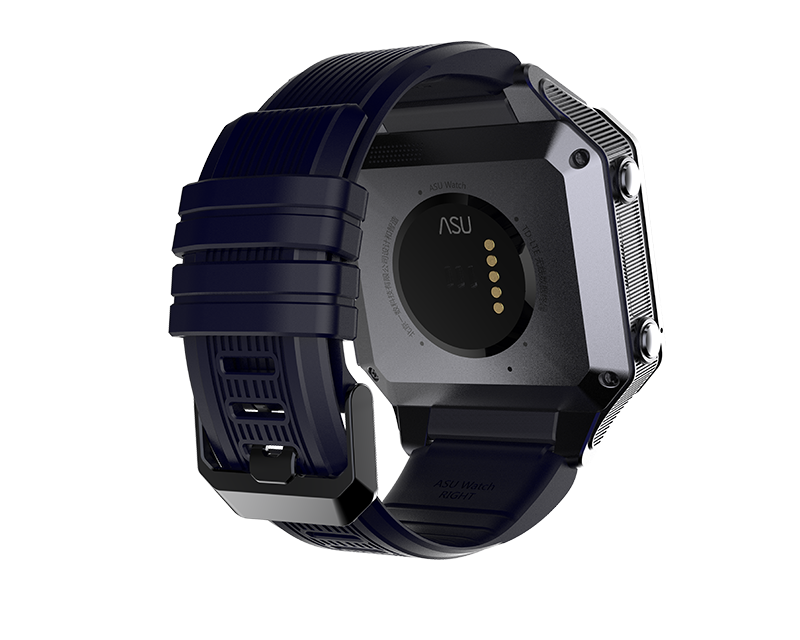
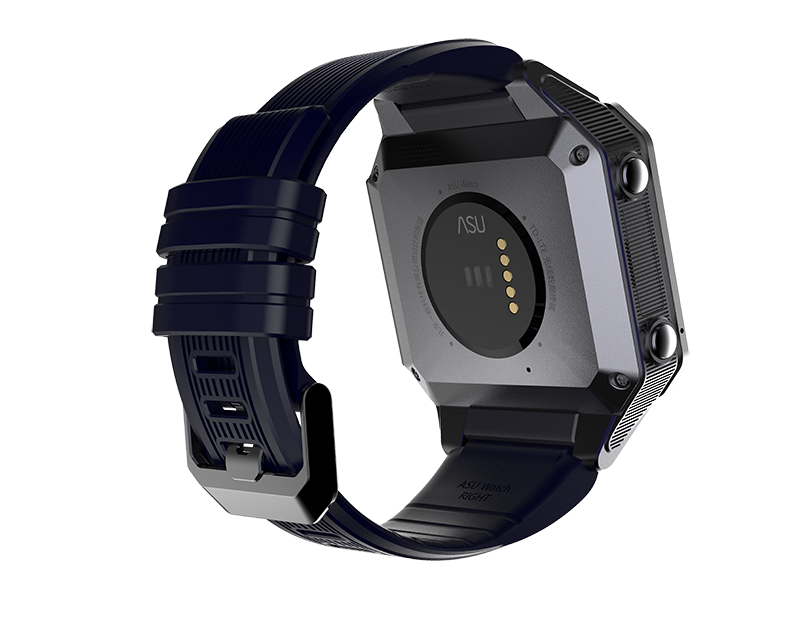
360  ,主页位置

Changed region(s): [[0.1875, 0.0625, 0.875, 0.875], [0.3125, 0.25, 0.3438, 0.2812]]

diff --git a/product/templates/product/cast2.html b/product/templates/product/cast2.html
@@ -147,6 +147,10 @@
                             </div>
                             <div class="hide-text">
                                 <div class="image-text orange">健康</div>
+                                <p>自动记录每天运动步数</p>
+                                <p>自动计算并显示运动水平</p>
+                                <p>心率测量</p>
+                                <p>关键数据投影在手背上，展示更多信息</p>
                             </div>
                             <div class="hide-text">
                                 <div class="image-text orange">来画APP</div>
@@ -159,9 +163,12 @@
                             </div>
                             <div class="hide-text">
                                 <div class="image-text orange">跑步</div>
+                                <p>记录跑步关键数据</p>
+                                <p>跑步中手背投影运动关键数据，如配速、距离等，查看更方便</p>
                             </div>
                             <div class="hide-text">
                                 <div class="image-text orange">U＋</div>
+                                <p>控制海尔智能空调</p>
                             </div>
                         </div>
                     </div>
@@ -227,29 +234,24 @@
                             <div class="image-text orange">电话APP</div>
                             <p>支持接打电话</p>
                             <p>支持本地通讯录</p>
-                            <p>心率测量</p>
                             <p>电话号码手背投影显示，点击手背接听</p>
                         </div>
                         <div class="hide-text">
-                            <div class="image-text orange">电话2APP</div>
-                            <p>支持接打电话</p>
-                            <p>支持本地通讯录</p>
-                            <p>心率测量</p>
-                            <p>电话号码手背投影显示，点击手背接听</p>
+                            <div class="image-text orange">音乐APP</div>
+                            <p>可播放手机同步的音乐</p>
+                                <p>将歌曲歌词投影在手背上，方便查看</p>
                         </div>
                         <div class="hide-text">
-                            <div class="image-text orange">电话3APP</div>
-                            <p>支持接打电话</p>
-                            <p>支持本地通讯录</p>
-                            <p>心率测量</p>
-                            <p>电话号码手背投影显示，点击手背接听</p>
+                            <div class="image-text orange">跑步</div>
+                            <p>记录跑步关键数据</p>
+                            <p>跑步中手背投影运动关键数据，如配速、距离等，查看更方便</p>
                         </div>
                         <div class="hide-text">
-                            <div class="image-text orange">电话4APP</div>
-                            <p>支持接打电话</p>
-                            <p>支持本地通讯录</p>
-                            <p>心率测量</p>
-                            <p>电话号码手背投影显示，点击手背接听</p>
+                            <div class="hide-text">
+                                <div class="image-text orange">Show APP</div>
+                                <p>从show store中选择动画效果，show出你的态度</p>
+                                <p>投影精美制作的动画效果到手背上</p>
+                            </div>
                         </div>
                     </div>
                 </div>
@@ -311,19 +313,22 @@
                                     <p>投影制作精美的动画到手背上</p>
                                 </div>
                                 <div class="hide-text">
-                                    <div class="image-text orange">Show2 APP</div>
-                                    <p>从show stroe中选择动画特效，show出你的态度</p>
-                                    <p>投影制作精美的动画到手背上</p>
+                                    <div class="image-text orange">电话APP</div>
+                            <p>支持接打电话</p>
+                            <p>支持本地通讯录</p>
+                            <p>电话号码手背投影显示，点击手背接听</p>
                                 </div>
                                 <div class="hide-text">
-                                    <div class="image-text orange">Show3 APP</div>
-                                    <p>从show stroe中选择动画特效，show出你的态度</p>
-                                    <p>投影制作精美的动画到手背上</p>
+                                    <div class="image-text orange">跑步</div>
+                                    <p>记录跑步关键数据</p>
+                                    <p>跑步中手背投影运动关键数据，如配速、距离等，查看更方便</p>
                                 </div>
                                 <div class="hide-text">
-                                    <div class="image-text orange">Show4 APP</div>
-                                    <p>从show stroe中选择动画特效，show出你的态度</p>
-                                    <p>投影制作精美的动画到手背上</p>
+                                    <div class="image-text orange">健康</div>
+                                <p>自动记录每天运动步数</p>
+                                <p>自动计算并显示运动水平</p>
+                                <p>心率测量</p>
+                                <p>关键数据投影在手背上，展示更多信息</p>
                                 </div>
                             </div>
                         </div>
@@ -391,14 +396,16 @@
                         </tr>
                     </table>
                     <div class="hide-text db">
-                        <div class="image-text orange">Show APP</div>
-                        <p>从show stroe中选择动画特效，show出你的态度</p>
-                        <p>投影制作精美的动画到手背上</p>
+                        <div class="image-text orange">跑步</div>
+                        <p>记录跑步关键数据</p>
+                        <p>跑步中手背投影运动关键数据，如配速、距离等，查看更方便</p>
                     </div>
                     <div class="hide-text">
-                        <div class="image-text orange">Show2 APP</div>
-                        <p>从show stroe中选择动画特效，show出你的态度</p>
-                        <p>投影制作精美的动画到手背上</p>
+                        <div class="image-text orange">健康</div>
+                    <p>自动记录每天运动步数</p>
+                    <p>自动计算并显示运动水平</p>
+                    <p>心率测量</p>
+                    <p>关键数据投影在手背上，展示更多信息</p>
                     </div>
                 </div>
             </div>

diff --git a/static/css/hostpage.css b/static/css/hostpage.css
@@ -260,9 +260,8 @@ background:unsert;
 
 .sider0 img{
   position: absolute;
-  top: -90px;
-  left: -240px;
-  height: 768px;
+  left: -10%;
+  height: 100%;
 }
 
 
@@ -270,7 +269,7 @@ background:unsert;
 -webkit-animation:spin 60s linear infinite;
 -moz-animation:spin 60s linear infinite;
 animation:spin 60s linear infinite; 
-transform-origin: 731px 385px;
+transform-origin: 38% 50%;
 }
 @-moz-keyframes spin { 100% { -moz-transform: rotate(360deg); } }
 @-webkit-keyframes spin { 100% { -webkit-transform: rotate(360deg); } }
@@ -349,12 +348,6 @@ transform-origin: 731px 385px;
   transform: translateX(-20%);
 }
 @media screen and (min-width:1500px){
-  .sider0 img{
-    position: absolute;
-    top: 92px;
-    left: 0;
-    height: 768px;
-  }
   .sider-2img{
     position: absolute;
     left: 46%;
